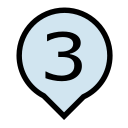
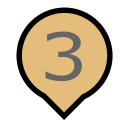
Stop changing the colours!

diff --git a/AcornSat.Analyser/Program.cs b/AcornSat.Analyser/Program.cs
@@ -505,33 +505,53 @@ List<Location> BuildAcornSatLocationsFromReferenceData(Guid dataSetId)
 
 static void GenerateMapMarkers()
 {
-    var colours = new List<string>
+    var fillColours = new List<string>
     {
         "#053061",
         "#2166AC",
-        "#4393C3",
-        "#92C5DE",
-        "#D1E5F0",
-        "#F7F7F7",
-        "#FDDBC7",
-        "#F4A582",
-        "#D6604D",
-        "#B2182B",
-        "#67001F",
+
+        "#ffffff",
+        "#ffffd0",
+        "#e4bd7d",
+        "#e4bd7d",
+        "#ce7642",
+        "#ce7642",
+        "#b2182b",
+        "#b2182b",
+        "#67001f",
+
         "#007FFF",
+    };
+
+    var textColours = new List<string>
+    {
+        "#ffffff",
+        "#ffffff",
+
+        "#000000",
+        "#333333",
+        "#666666",
+        "#666666",
+        "#ffffff",
+        "#ffffff",
+        "#ffffff",
+        "#ffffff",
+        "#ffffff",
+
+        "#ffffff",
     };
 
     for (var i = -1; i < 11; i++)
     {
         var svg = File.ReadAllText("MapMarker.svg");
-        svg = svg.Replace("{colour}", colours[i + 1]);
+        svg = svg.Replace("{colour}", fillColours[i + 1]);
         var text = i == -1
                         ? "-"
                         : i == 10
                             ? "?"
                             : i.ToString();
         svg = svg.Replace("{text}", text);
-        svg = svg.Replace("{text-colour}", text == "3" || text == "4" || text == "5" || text == "6" ? "#000000" : "#FFFFFF");
+        svg = svg.Replace("{text-colour}", textColours[i + 1]);
         var fileName = i == -1
                             ? "negative"
                             : i == 10
